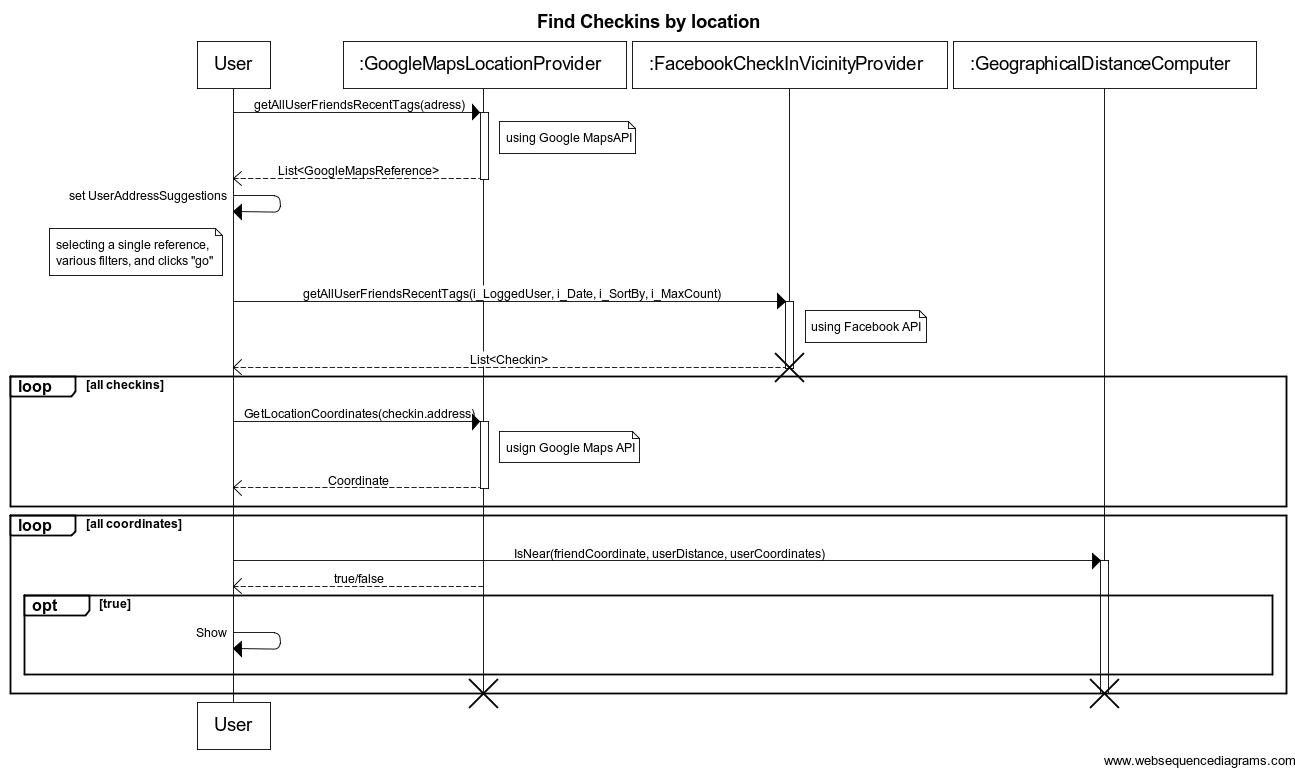
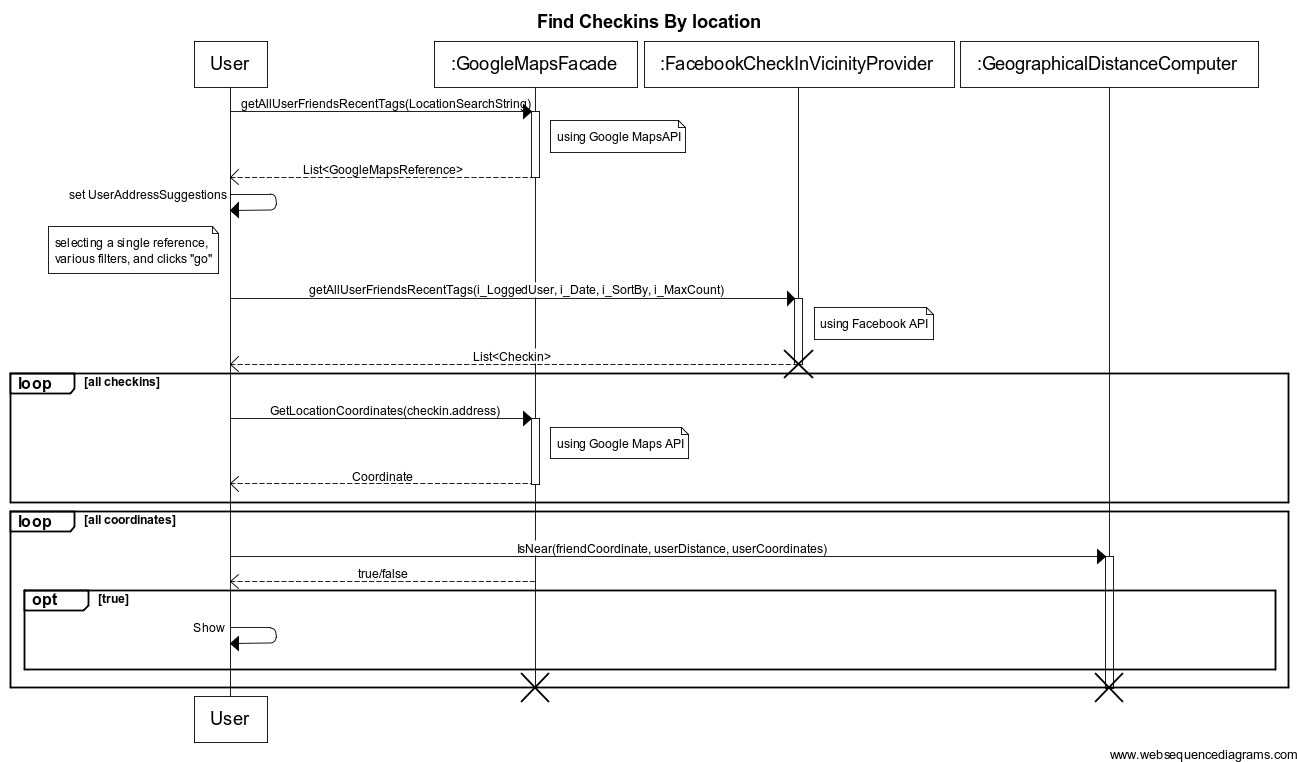
naming changes and updated sequence diagram

diff --git a/Ex02_new/A14 Ex02 Lee 300318573 Ido 031180474.sln/FindTagsAround/GoogleMapsLocationFacade.cs b/Ex02_new/A14 Ex02 Lee 300318573 Ido 031180474.sln/FindTagsAround/GoogleMapsLocationFacade.cs
@@ -11,19 +11,19 @@ using System.IO;
 namespace FindTagsAround
 {
 
-    public class GoogleMapsLocationProvider : ILocationProvider
+    public class GoogleMapsFacade : ILocationProvider
     {
         private string m_GoogleMapsKey = "AIzaSyBYpkC0V-CGuJX1pDC8Rr8nuF4ISACDjiE";
 
-        public Coordinate GetLocationCoordinates(string i_LocationReference)
+        public Coordinate GetLocationCoordinates(string i_GoogleMapsReference)
         {
-            var responseStream = getLocationResponseStream(i_LocationReference);
+            var responseStream = getLocationResponseStream(i_GoogleMapsReference);
             return getLocationFromResponseXml(responseStream);
         }
 
-        public List<GoogleMapsReference> GetLocationSuggestions(string userInput)
+        public List<GoogleMapsReference> GetLocationSuggestions(string i_LocationSearchString)
         {
-            var responseStream = getSuggestionsResponseStream(userInput);
+            var responseStream = getSuggestionsResponseStream(i_LocationSearchString);
             var result = getSuggestionsFromResponseXml(responseStream);
             return result;
         }

diff --git a/Ex02_new/A14 Ex02 Lee 300318573 Ido 031180474.sln/FaceBookFrontEnd/CheckinHolder.cs b/Ex02_new/A14 Ex02 Lee 300318573 Ido 031180474.sln/FaceBookFrontEnd/CheckinHolder.cs
@@ -33,7 +33,7 @@ namespace FaceBookFrontEnd
         
         internal void setUserAddresses(String i_UserInput)
         {
-            GoogleMapsLocationProvider locationPrvdr = new GoogleMapsLocationProvider();
+            GoogleMapsFacade locationPrvdr = new GoogleMapsFacade();
             m_UserAddressSuggestions = locationPrvdr.GetLocationSuggestions(i_UserInput);
         }
         
@@ -58,7 +58,7 @@ namespace FaceBookFrontEnd
         
         internal void setAllCheckinByPlace(String userLocation, double userDistance, String addressSelected)
         {
-            GoogleMapsLocationProvider locationPrvdr = new GoogleMapsLocationProvider();
+            GoogleMapsFacade locationPrvdr = new GoogleMapsFacade();
             GeographicalDistanceComputer distanceComputer = new GeographicalDistanceComputer();
             String reference = findUserReferenceLocation(addressSelected);
             Coordinate userCoordinates = locationPrvdr.GetLocationCoordinates(reference);
